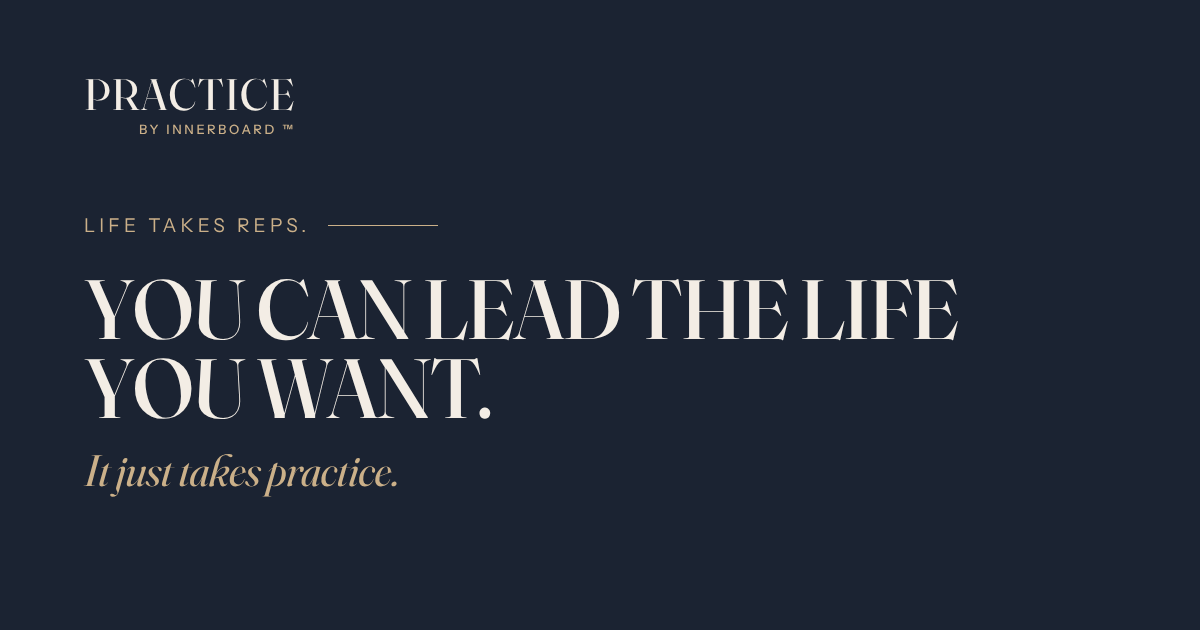
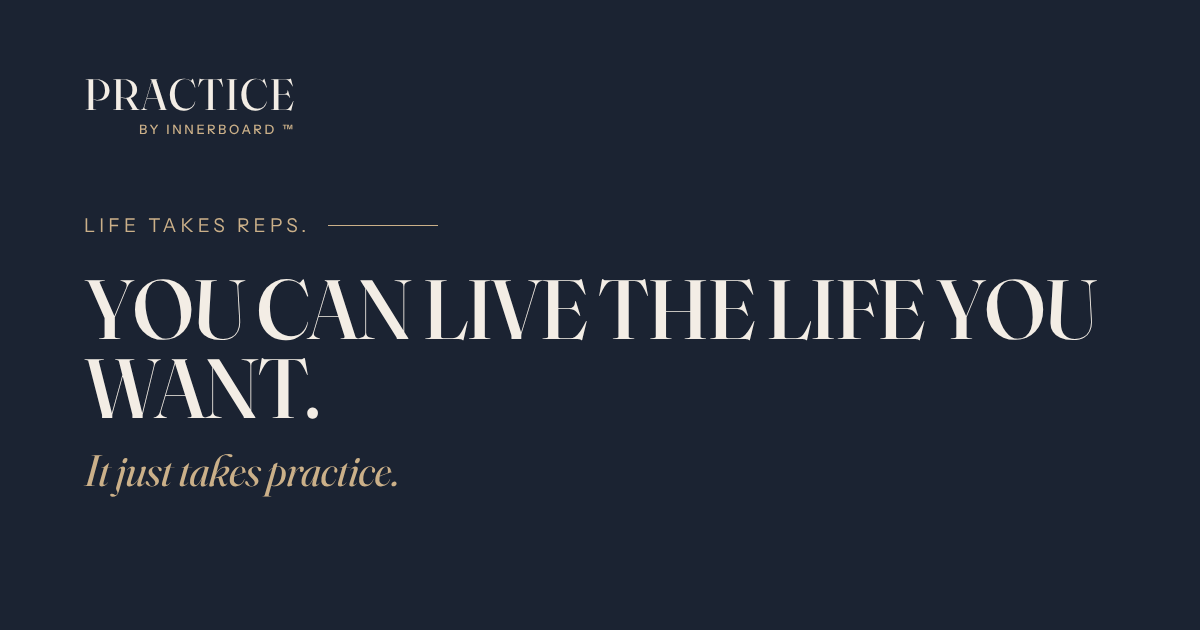
Hero line: "You can live the life you want", 20 percent smaller
The client's change to the home headline: live in place of lead, and the
headline a fifth smaller (clamp 2.4rem, 6.08vw, 5.28rem). Its italic line,
"It just takes practice.", keeps its size (.55 of the smaller headline).
The same line in the footer, the page descriptions and the link preview
image now reads live too, so the site says one thing.

Claude-Session: https://claude.ai/code/session_016eeJ21GGDZmvVkMmqLCipo

Changed region(s): [[0.4008, 0.4222, 0.8942, 0.5429], [0.0617, 0.5429, 0.4317, 0.6635]]

diff --git a/src/styles/practice.css b/src/styles/practice.css
@@ -102,8 +102,8 @@ main section.view{display:block;animation:rise .5s ease both}
 /* hero */
 .hero{padding-block:72px 64px;background:linear-gradient(105deg,var(--surface) 0%,var(--band) 100%);overflow:hidden}
 .hero-grid{display:grid;grid-template-columns:1.1fr .9fr;gap:56px;align-items:center}
-.hero h1{font-size:clamp(3rem,7.6vw,6.6rem);font-weight:500;text-transform:uppercase;line-height:.94;letter-spacing:-.025em;margin-top:22px;font-variation-settings:"opsz" 144}
-.hero h1 em{display:block;font-style:italic;font-weight:400;text-transform:none;letter-spacing:-.01em;font-size:.44em;line-height:1.1;margin-top:.4em}
+.hero h1{font-size:clamp(2.4rem,6.08vw,5.28rem);font-weight:500;text-transform:uppercase;line-height:.94;letter-spacing:-.025em;margin-top:22px;font-variation-settings:"opsz" 144}
+.hero h1 em{display:block;font-style:italic;font-weight:400;text-transform:none;letter-spacing:-.01em;font-size:.55em;line-height:1.1;margin-top:.32em}
 .hero .sub{font-family:var(--display);font-size:clamp(1.35rem,2.3vw,1.8rem);margin-top:22px;line-height:1.2}
 .hero .ctas{margin-top:34px}
 @media(max-width:900px){.hero-grid{grid-template-columns:1fr}}
